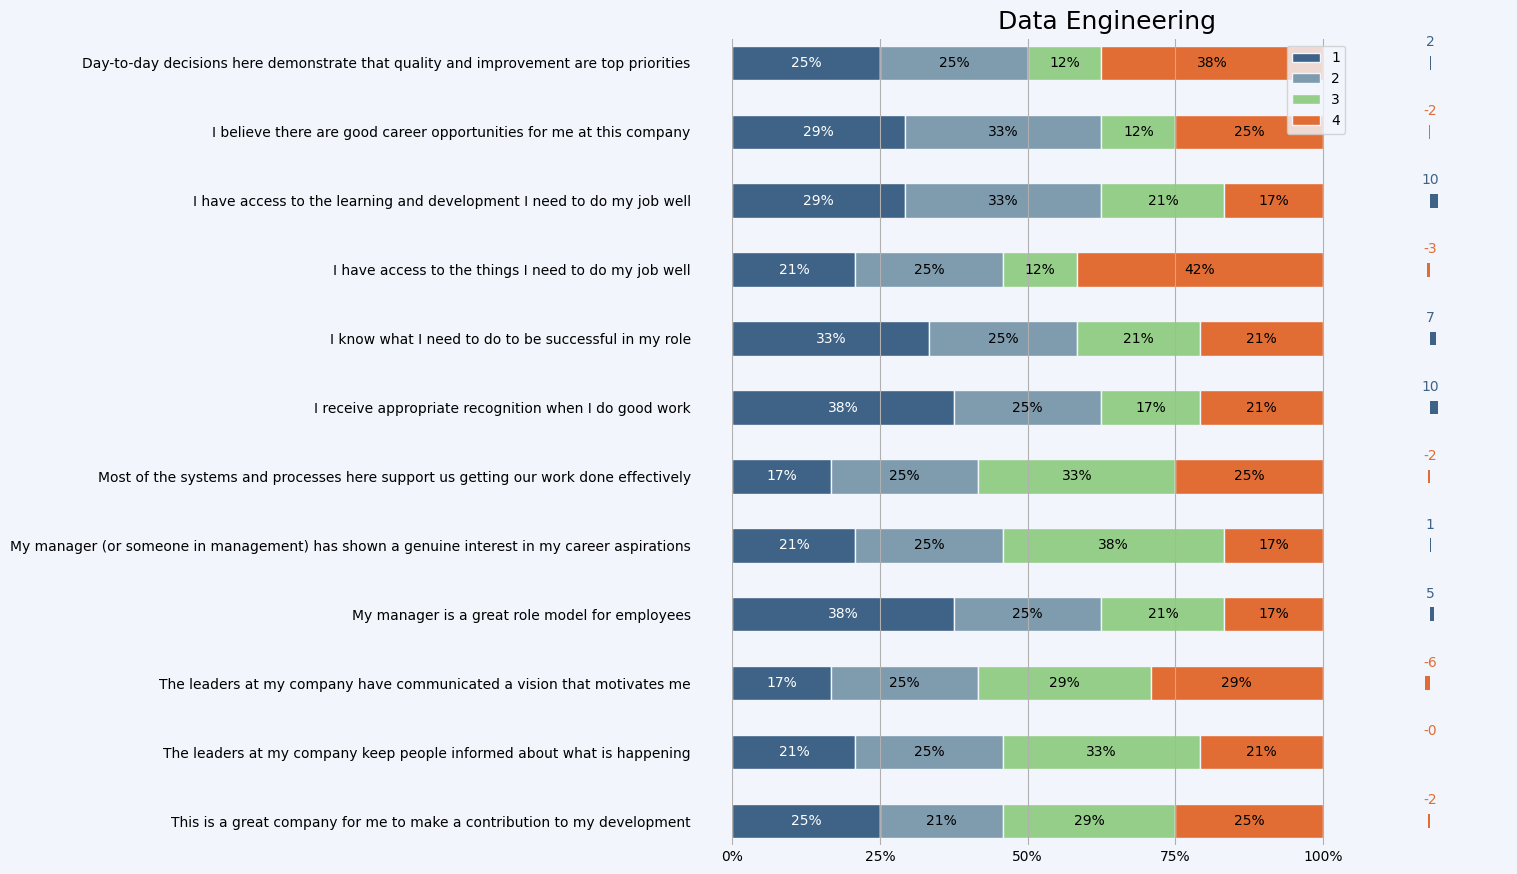
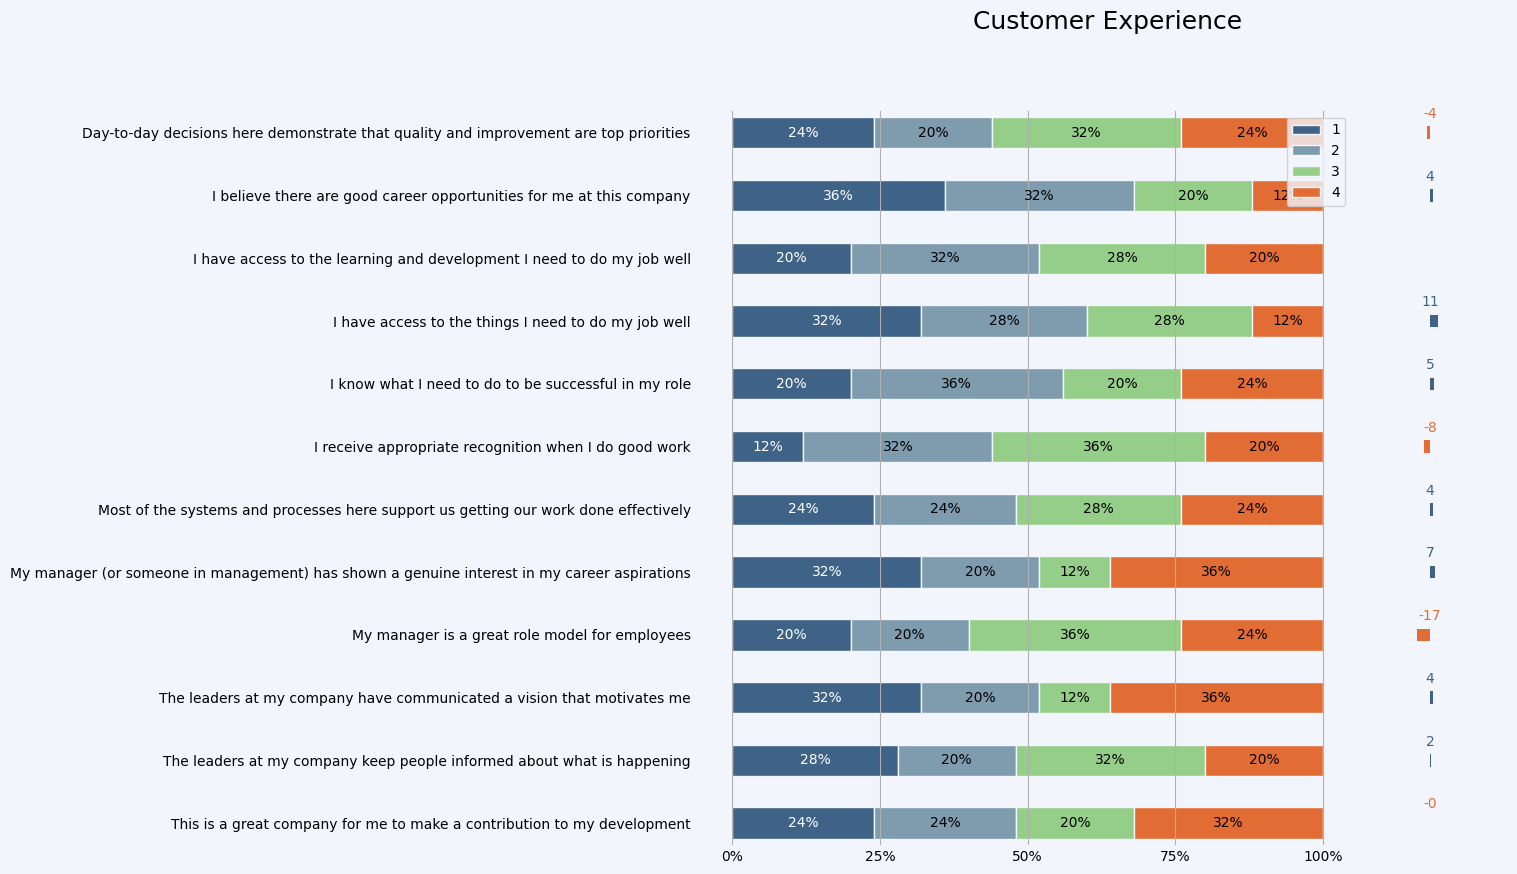
fix: Improve title spacing algorithm

diff --git a/likert_graph_cli.py b/likert_graph_cli.py
@@ -129,9 +129,15 @@ def create_figure(subplot_rows, height, height_ratios, width_ratios, title):
         width_ratios=width_ratios,
     )
     axes = gs.subplots(sharey="row")
-    fig.subplots_adjust(top=0.95)
     fig.suptitle(title, fontsize=18)
     return fig, axes
+
+
+def adjust_title_space(fig, top):
+    """Give the super title some breathing room."""
+    w, h = fig.get_size_inches()
+    percent = top / h
+    fig.subplots_adjust(top=(1-percent))
 
 
 def create_graph(df, title, colors, show_legend):
@@ -164,6 +170,9 @@ def create_graph(df, title, colors, show_legend):
         )
         plot_results(df, axes[0], None, colors, show_legend)
         plot_comparison(df, axes[1])
+
+    if title is not None:
+        adjust_title_space(fig, 1.2)
 
     return fig
 
